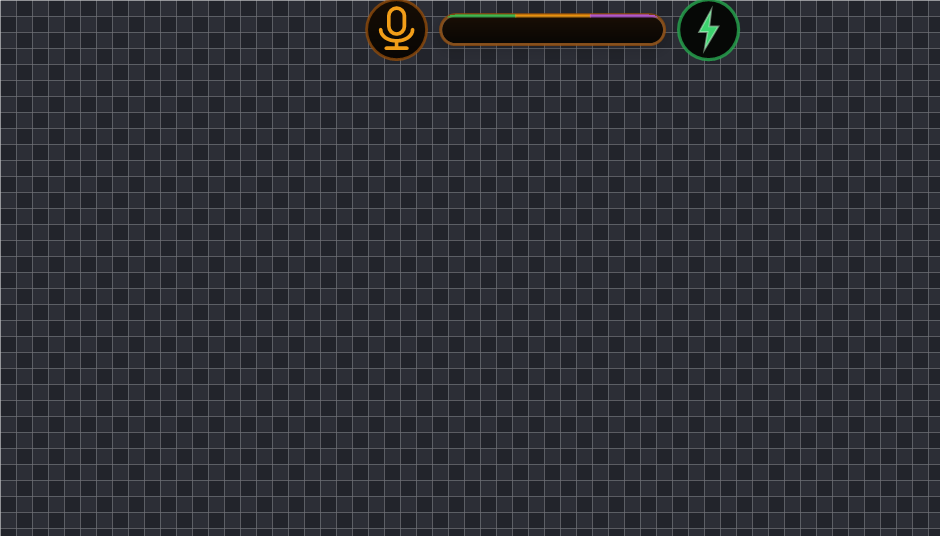
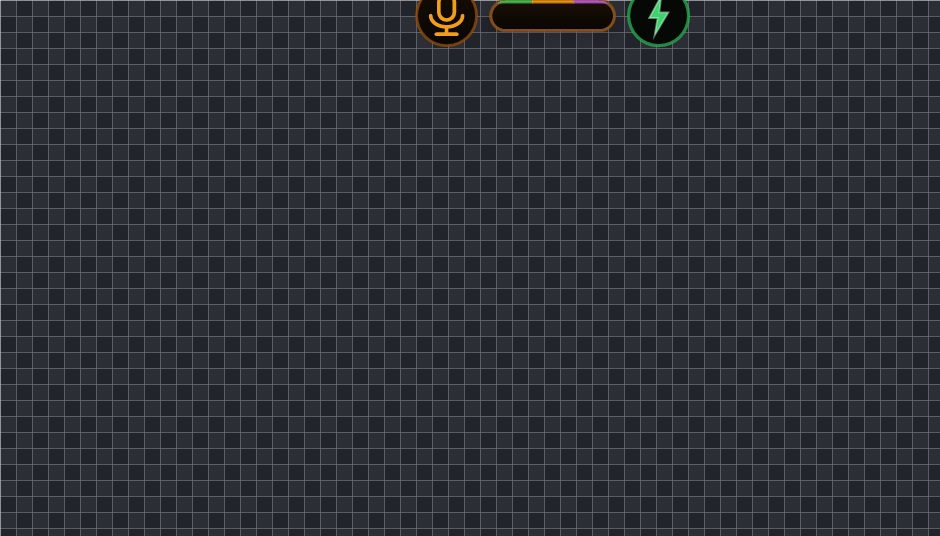
flat capsule keeps the normal width and hugs the top edge; only true fullscreen triggers it

Changed region(s): [[0.3702, 0.0, 0.8021, 0.1194]]

diff --git a/DynamicIsland.cs b/DynamicIsland.cs
@@ -494,8 +494,7 @@ namespace DynamicIsland
         private const int CardAppH = 120;
         private const int ChargePillW = 92;           // bolt + percentage
         private const int ChargeBadgeW = 30;          // the detached badge
-        private const int FlatW = 112;                // flat capsule while an app is fullscreen
-        private const int FlatH = 15;
+        private const int FlatH = 15;                 // flat capsule while an app is fullscreen
         private const int BandH = 4;                  // coloured strip along the top edge
 
         // ---- status colours: the island tints itself instead of drawing an icon ----
@@ -594,7 +593,7 @@ namespace DynamicIsland
             if (hud2) hudShownAt = DateTime.Now.AddSeconds(-(seconds > 0 ? seconds : 1));
             if (open2 && !hud2) { animW = OpenW; animH = OpenH; }
             else if (hud2) { animW = HudW; animH = IdleH; }
-            else if (fullscreen) { animW = FlatW; animH = FlatH; }
+            else if (fullscreen) { animW = idleW; animH = FlatH; }
             else { animW = idleW; animH = IdleH; }
             // a posed island must not be re-animated by the first Tick it receives
             velW = velH = velOpen = velHud = 0;
@@ -690,7 +689,7 @@ namespace DynamicIsland
         public void PoseFlat()
         {
             fullscreen = true;
-            animW = FlatW;
+            animW = idleW;          // same length as always, only flatter
             animH = FlatH;
             velW = velH = 0;
             expanded = false; open = 0; hud = 0; hudMode = false;
@@ -929,7 +928,7 @@ namespace DynamicIsland
         /// <summary>Width for a card: a touch wider than the compact glyph capsule.</summary>
         private double TargetWidth(Activity a)
         {
-            if (fullscreen) return FlatW;
+            if (fullscreen) return idleW;      // same length as always, just flat
             if (a == null) return idleW;
             switch (a.Kind)
             {
@@ -1354,7 +1353,9 @@ namespace DynamicIsland
             int ch = (int)Math.Round(CanvasH * scale);
             g.Clear(Color.Transparent);
 
-            double top = TopMarginPx * scale;
+            // In fullscreen the island hugs the very top edge, so it covers as little of
+            // the application as possible; otherwise it keeps its normal inset.
+            double top = (fullscreen ? 0 : TopMarginPx) * scale;
             double pw = animW * scale;
             double ph = animH * scale;
             // when the microphone dot is detached it sits to the LEFT of the pill, so the
